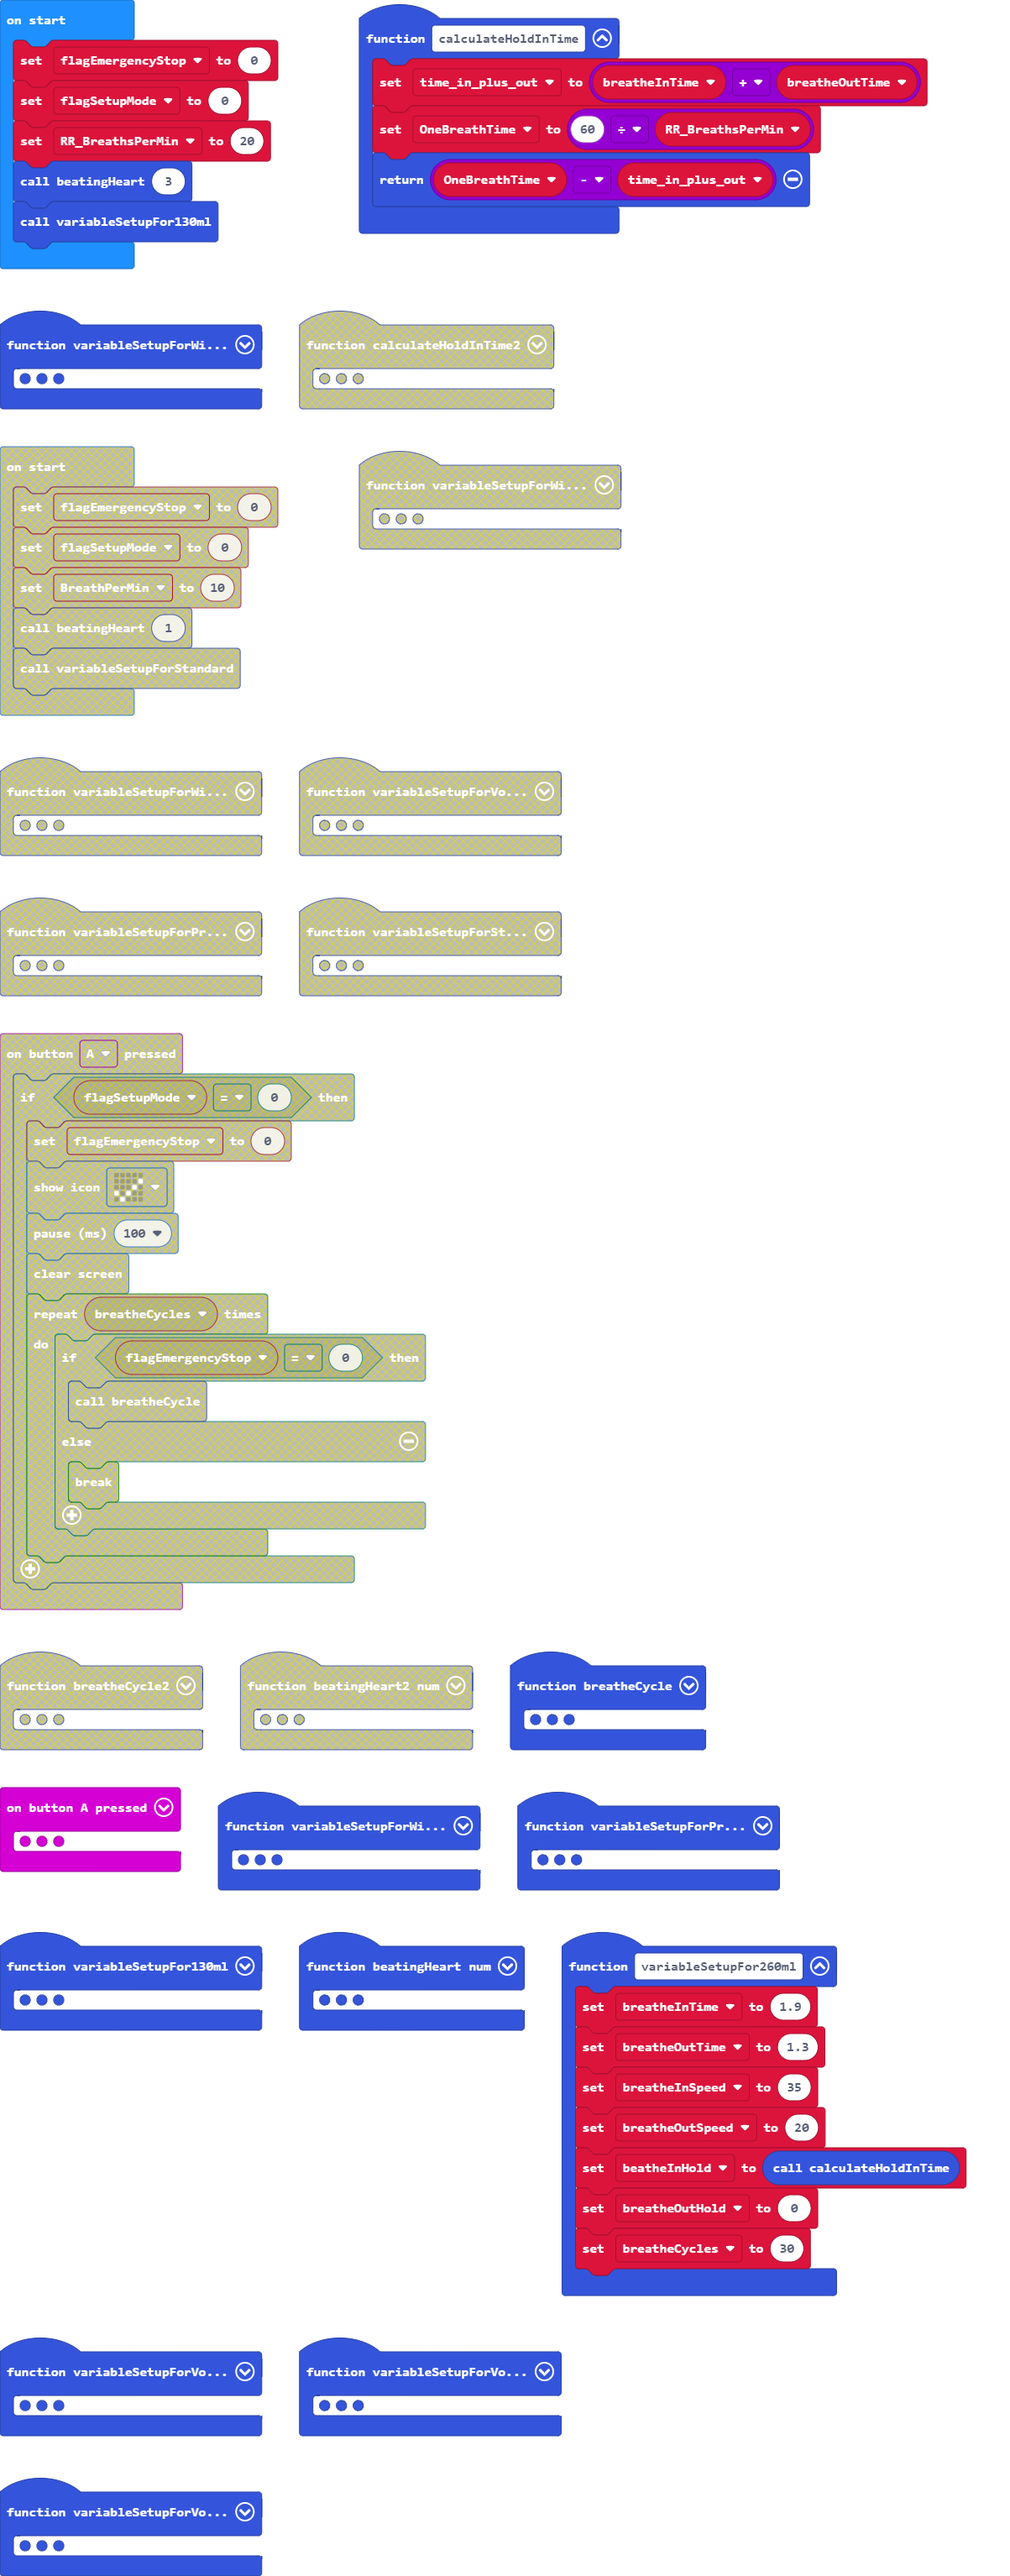
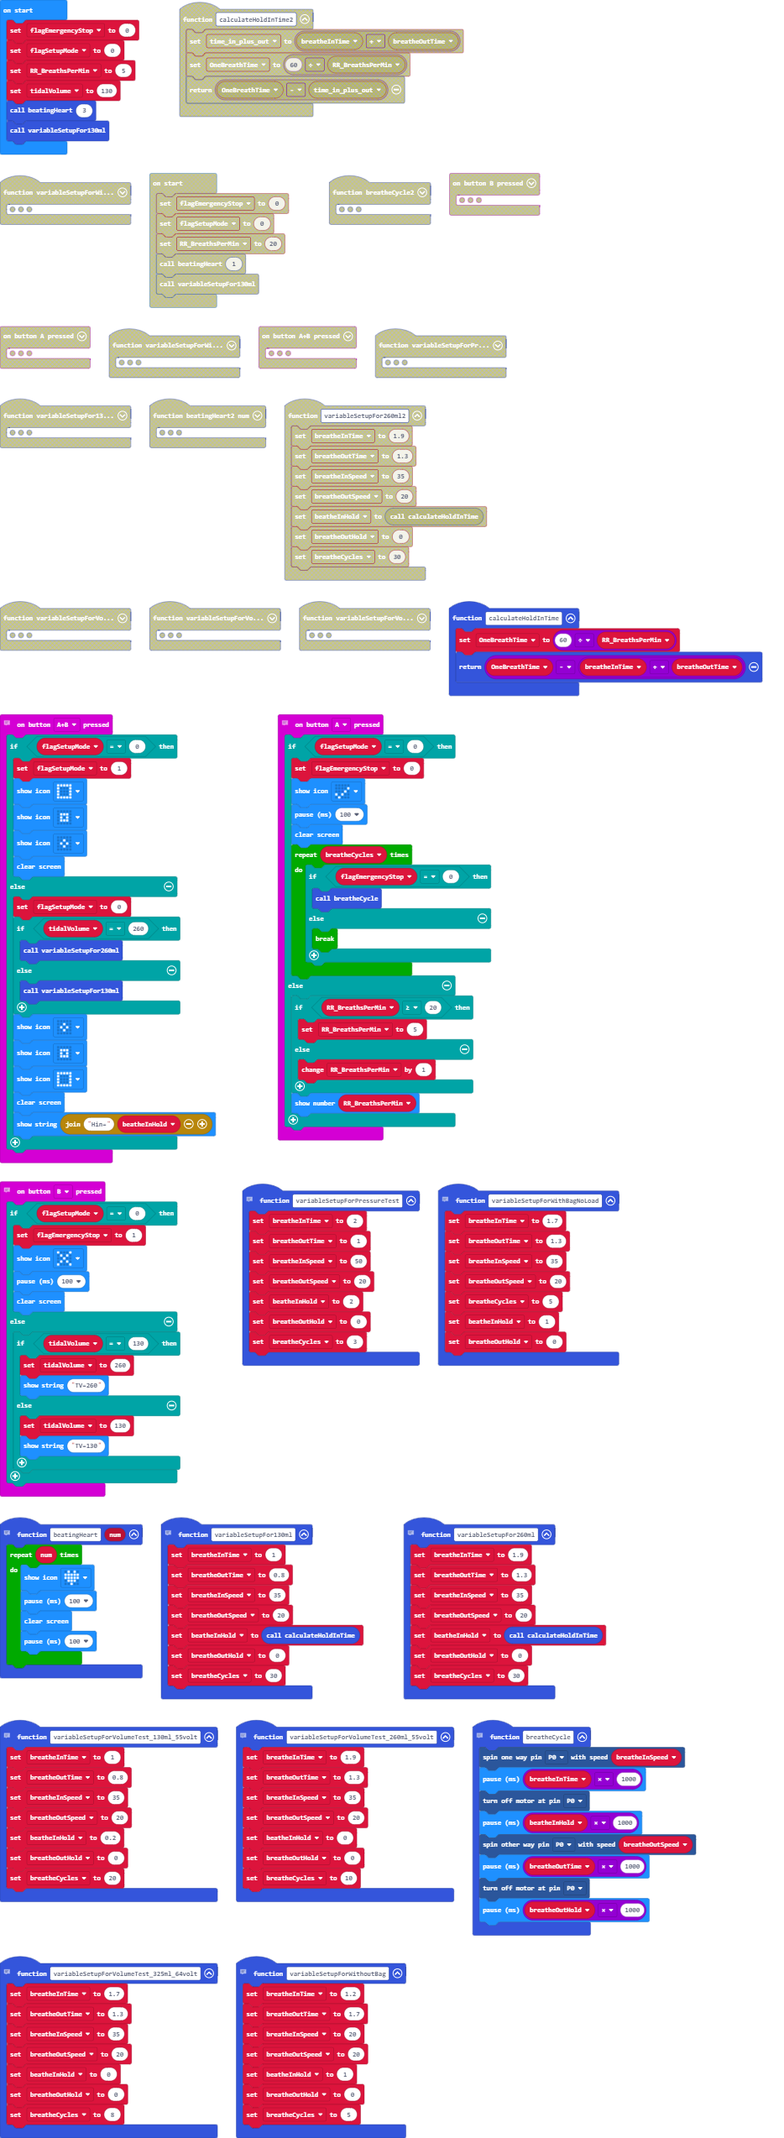
added setup code

diff --git a/main.ts b/main.ts
@@ -9,6 +9,7 @@ function breatheCycle () {
     ContinuousServo.turn_off_motor(DigitalPin.P0)
     basic.pause(breatheOutHold * 1000)
 }
+// Perform test setup for servo and gears without bag.
 function variableSetupForWithoutBag () {
     breatheInTime = 1.2
     breatheOutTime = 1.7
@@ -18,6 +19,7 @@ function variableSetupForWithoutBag () {
     breatheOutHold = 0
     breatheCycles = 5
 }
+// Perform variable setup for tidal volume of 130ml.
 function variableSetupFor130ml () {
     breatheInTime = 1
     breatheOutTime = 0.8
@@ -27,6 +29,7 @@ function variableSetupFor130ml () {
     breatheOutHold = 0
     breatheCycles = 30
 }
+// Perform test setup for tidal volume of 325ml with 6.4volt.
 function variableSetupForVolumeTest_325ml_64volt () {
     breatheInTime = 1.7
     breatheOutTime = 1.3
@@ -36,15 +39,7 @@ function variableSetupForVolumeTest_325ml_64volt () {
     breatheOutHold = 0
     breatheCycles = 8
 }
-function variableSetupForVolumeTest_260ml_55volt () {
-    breatheInTime = 1.9
-    breatheOutTime = 1.3
-    breatheInSpeed = 35
-    breatheOutSpeed = 20
-    beatheInHold = 0
-    breatheOutHold = 0
-    breatheCycles = 10
-}
+// Perform test setup to check air pressure using manometer.
 function variableSetupForPressureTest () {
     breatheInTime = 2
     breatheOutTime = 1
@@ -54,6 +49,7 @@ function variableSetupForPressureTest () {
     breatheOutHold = 0
     breatheCycles = 3
 }
+// in normal mode start the device, in setup mode change the RR
 input.onButtonPressed(Button.A, function () {
     if (flagSetupMode == 0) {
         flagEmergencyStop = 0
@@ -67,62 +63,20 @@ input.onButtonPressed(Button.A, function () {
                 break;
             }
         }
+    } else {
+        if (RR_BreathsPerMin >= 20) {
+            RR_BreathsPerMin = 5
+        } else {
+            RR_BreathsPerMin += 1
+        }
+        basic.showNumber(RR_BreathsPerMin)
     }
 })
 function calculateHoldInTime () {
-    time_in_plus_out = breatheInTime + breatheOutTime
     OneBreathTime = 60 / RR_BreathsPerMin
-    return OneBreathTime - time_in_plus_out
+    return OneBreathTime - (breatheInTime + breatheOutTime)
 }
-function variableSetupForWithBagNoLoad () {
-    breatheInTime = 1.7
-    breatheOutTime = 1.3
-    breatheInSpeed = 35
-    breatheOutSpeed = 20
-    breatheCycles = 5
-    beatheInHold = 1
-    breatheOutHold = 0
-}
-input.onButtonPressed(Button.AB, function () {
-    if (flagSetupMode == 0) {
-        flagSetupMode = 1
-        basic.showIcon(IconNames.Square)
-        basic.showIcon(IconNames.SmallSquare)
-        basic.showIcon(IconNames.SmallDiamond)
-        basic.clearScreen()
-    } else {
-        flagSetupMode = 0
-        basic.showIcon(IconNames.SmallDiamond)
-        basic.showIcon(IconNames.SmallSquare)
-        basic.showIcon(IconNames.Square)
-        basic.clearScreen()
-    }
-})
-function beatingHeart (num: number) {
-    for (let index = 0; index < num; index++) {
-        basic.showIcon(IconNames.Heart)
-        basic.pause(100)
-        basic.clearScreen()
-        basic.pause(100)
-    }
-}
-function variableSetupFor260ml () {
-    breatheInTime = 1.9
-    breatheOutTime = 1.3
-    breatheInSpeed = 35
-    breatheOutSpeed = 20
-    beatheInHold = calculateHoldInTime()
-    breatheOutHold = 0
-    breatheCycles = 30
-}
-input.onButtonPressed(Button.B, function () {
-    if (flagSetupMode == 0) {
-        flagEmergencyStop = 1
-        basic.showIcon(IconNames.No)
-        basic.pause(100)
-        basic.clearScreen()
-    }
-})
+// Perform test setup for tidal volume of 130ml with 5.5volt.
 function variableSetupForVolumeTest_130ml_55volt () {
     breatheInTime = 1
     breatheOutTime = 0.8
@@ -132,8 +86,85 @@ function variableSetupForVolumeTest_130ml_55volt () {
     breatheOutHold = 0
     breatheCycles = 20
 }
+// Perform test setup for tidal volume of 260ml with 5.5volt.
+function variableSetupForVolumeTest_260ml_55volt () {
+    breatheInTime = 1.9
+    breatheOutTime = 1.3
+    breatheInSpeed = 35
+    breatheOutSpeed = 20
+    beatheInHold = 0
+    breatheOutHold = 0
+    breatheCycles = 10
+}
+// Perform test setup for bag withour any load.
+function variableSetupForWithBagNoLoad () {
+    breatheInTime = 1.7
+    breatheOutTime = 1.3
+    breatheInSpeed = 35
+    breatheOutSpeed = 20
+    breatheCycles = 5
+    beatheInHold = 1
+    breatheOutHold = 0
+}
+// switch between setup mode and normal mode. Run setup function at the end of setup mode.
+input.onButtonPressed(Button.AB, function () {
+    if (flagSetupMode == 0) {
+        flagSetupMode = 1
+        basic.showIcon(IconNames.Square)
+        basic.showIcon(IconNames.SmallSquare)
+        basic.showIcon(IconNames.SmallDiamond)
+        basic.clearScreen()
+    } else {
+        flagSetupMode = 0
+        if (tidalVolume == 260) {
+            variableSetupFor260ml()
+        } else {
+            variableSetupFor130ml()
+        }
+        basic.showIcon(IconNames.SmallDiamond)
+        basic.showIcon(IconNames.SmallSquare)
+        basic.showIcon(IconNames.Square)
+        basic.clearScreen()
+        basic.showString("Hin=" + beatheInHold)
+    }
+})
+// display a beating heart for number of times
+function beatingHeart (num: number) {
+    for (let index = 0; index < num; index++) {
+        basic.showIcon(IconNames.Heart)
+        basic.pause(100)
+        basic.clearScreen()
+        basic.pause(100)
+    }
+}
+// Perform variable setup for tidal volume of 260ml.
+function variableSetupFor260ml () {
+    breatheInTime = 1.9
+    breatheOutTime = 1.3
+    breatheInSpeed = 35
+    breatheOutSpeed = 20
+    beatheInHold = calculateHoldInTime()
+    breatheOutHold = 0
+    breatheCycles = 30
+}
+// in normal mode stop the device, in setup mode change the TV
+input.onButtonPressed(Button.B, function () {
+    if (flagSetupMode == 0) {
+        flagEmergencyStop = 1
+        basic.showIcon(IconNames.No)
+        basic.pause(100)
+        basic.clearScreen()
+    } else {
+        if (tidalVolume == 130) {
+            tidalVolume = 260
+            basic.showString("TV=260")
+        } else {
+            tidalVolume = 130
+            basic.showString("TV=130")
+        }
+    }
+})
 let OneBreathTime = 0
-let time_in_plus_out = 0
 let breatheCycles = 0
 let breatheOutHold = 0
 let breatheOutTime = 0
@@ -141,11 +172,13 @@ let breatheOutSpeed = 0
 let beatheInHold = 0
 let breatheInTime = 0
 let breatheInSpeed = 0
+let tidalVolume = 0
 let RR_BreathsPerMin = 0
 let flagSetupMode = 0
 let flagEmergencyStop = 0
 flagEmergencyStop = 0
 flagSetupMode = 0
-RR_BreathsPerMin = 20
+RR_BreathsPerMin = 5
+tidalVolume = 130
 beatingHeart(3)
 variableSetupFor130ml()
